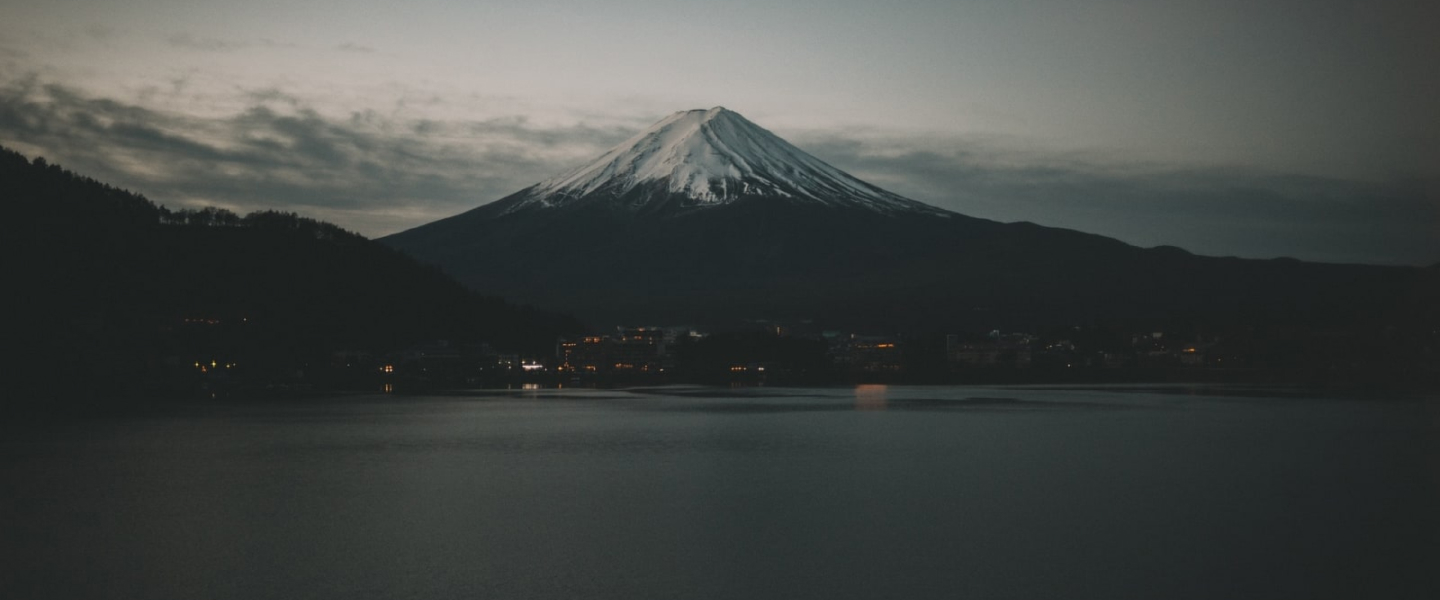
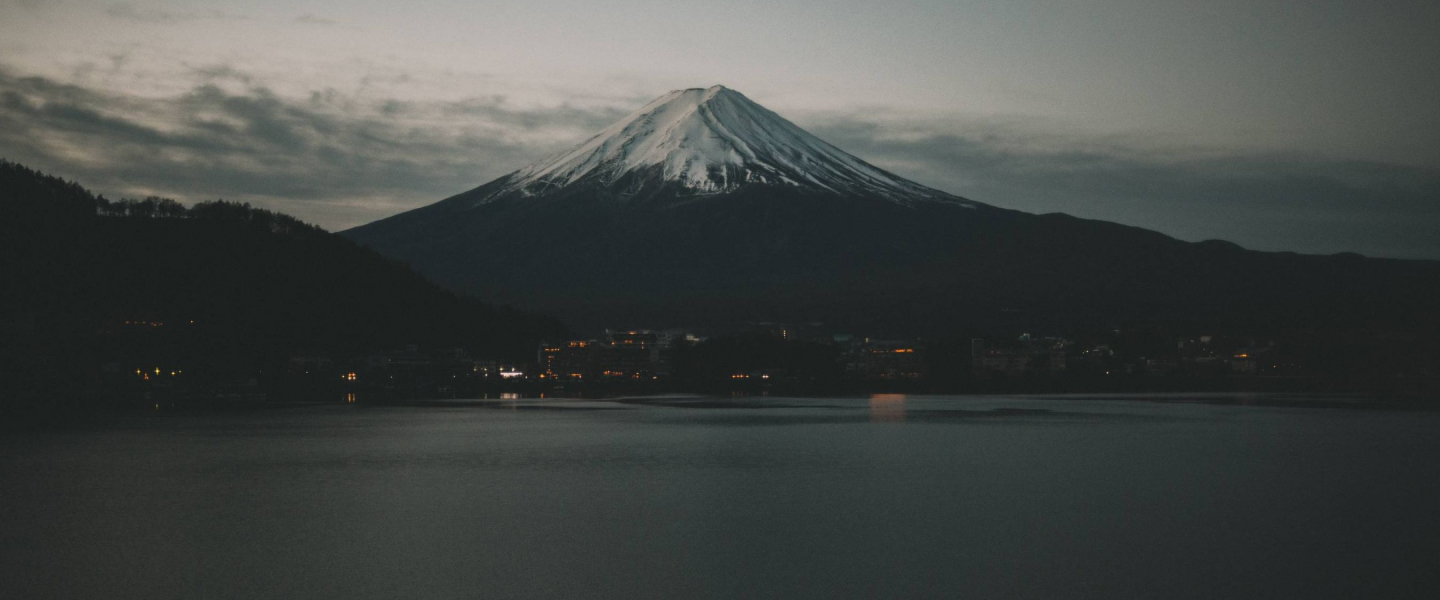
feature: create section sunset

diff --git a/dist/index.html b/dist/index.html
@@ -1,1 +1,1 @@
-<!DOCTYPE html><html lang="en"><head><meta charset="UTF-8"><meta http-equiv="X-UA-Compatible" content="IE=edge"><meta name="viewport" content="width=device-width,initial-scale=1"><title>Aperture</title><link rel="stylesheet" href="css/style.min.css"></head><body><header class="header"><div class="container"><div class="header__nav"><a href="#" class="header__logo"><img src="icons/logo.svg" alt="logo"></a><ul class="header__list"><li class="header__link">Business areas</li><li class="header__link">Featured images</li><li class="header__link">Gear cage</li><li class="header__link">Contact</li><button class="header__button">Get template</button></ul></div></div></header><section class="promo"><div class="container"><div class="promo__wrapper"><div class="promo__company">Photographer & Filmmaker</div><h1 class="promo__title">Aperture Studios</h1><div class="promo__descr">Lorem ipsum dolor sit amet, consectetur adipiscing elit. Suspendisse varius enim in eros elementum tristique. Duis cursus, mi quis viverra ornare, eros dolor interdum nulla, ut commodo diam libero vitae erat. Aenean faucibus nibh et justo cursus id rutrum lorem imperdiet. Nunc ut sem vitae risus tristique posuere.</div></div><div class="info"><div class="info__item"><div class="info__icon"><img src="icons/Shutter-Icon-Light.svg" alt="Shutter"></div><div class="info__text">1/2000s</div></div><div class="info__item"><div class="info__icon"><img src="icons/Aperture-Icon-Light.svg" alt="Aperture"></div><div class="info__text">f/11</div></div><div class="info__item"><div class="info__icon"><img src="icons/ISO-Icon-Light.svg" alt="ISO"></div><div class="info__text">100</div></div><div class="info__item"><div class="info__icon"><img src="icons/Location-Icon-Light.svg" alt="Location"></div><div class="info__text">Iceland</div></div></div></div></section><section class="what-we"><div class="container"><div class="title">What we do.</div><div class="subtitle what-we__subtitle">The areas that we're specialized in.</div><div class="what-we__wrapper"><div class="what-we__item"><img src="img/Product.jpg" alt="Product" class="what-we__img"><div class="what-we__content"><div class="title title_mini">Product Photography</div><div class="description description_mini what-we__description">Cras commodo consequat orci, in convallis risus egestas non. Nulla efficitur auctor hendrerit. Etiam ut orci varius, faucibus libero ac, cursus quam.</div><button class="button what-we__button">Read more</button></div></div><div class="what-we__item"><img src="img/Architecture.jpg" alt="Architecture" class="what-we__img"><div class="what-we__content"><div class="title title_mini">Architecture Photography</div><div class="description description_mini what-we__description">Aenean porta neque eget consequat fringilla. Vestibulum ultrices, orci nec egestas pharetra, ligula est semper enim, nec auctor sapien leo nec purus. Fusce tincidunt aliquet sapien, sit amet rhoncus leo imperdiet nec.</div><button class="button what-we__button">Read more</button></div></div><div class="what-we__item"><img src="img/Drone.jpg" alt="Drone" class="what-we__img"><div class="what-we__content"><div class="title title_mini">Drone Photography</div><div class="description description_mini what-we__description">Mauris euismod elit et nisi ultrices, ut faucibus orci tincidunt. Duis tristique sed lorem a vestibulum. Cras commodo consequat orci, in convallis risus egestas non. Nulla efficitur auctor hendrerit. Etiam ut orci varius, faucibus libero ac, cursus quam.</div><button class="button what-we__button">Read more</button></div></div><div class="what-we__item"><img src="img/Wildlife.jpg" alt="Wildlife" class="what-we__img"><div class="what-we__content"><div class="title title_mini">Wildlife Photography</div><div class="description description_mini what-we__description">Lorem ipsum dolor sit amet, consectetur adipiscing elit. Nullam scelerisque aliquam odio et faucibus. Nulla rhoncus feugiat eros quis consectetur. Morbi neque ex, condimentum dapibus congue et, vulputate ut ligula. Vestibulum sit amet urna turpis.</div><button class="button what-we__button">Read more</button></div></div></div></div></section></body></html>
+<!DOCTYPE html><html lang="en"><head><meta charset="UTF-8"><meta http-equiv="X-UA-Compatible" content="IE=edge"><meta name="viewport" content="width=device-width,initial-scale=1"><title>Aperture</title><link rel="stylesheet" href="css/style.min.css"></head><body><header class="header"><div class="container"><div class="header__nav"><a href="#" class="header__logo"><img src="icons/logo.svg" alt="logo"></a><ul class="header__list"><li class="header__link">Business areas</li><li class="header__link">Featured images</li><li class="header__link">Gear cage</li><li class="header__link">Contact</li><button class="header__button">Get template</button></ul></div></div></header><section class="promo"><div class="container"><div class="promo__wrapper"><div class="promo__company">Photographer & Filmmaker</div><h1 class="promo__title">Aperture Studios</h1><div class="promo__descr">Lorem ipsum dolor sit amet, consectetur adipiscing elit. Suspendisse varius enim in eros elementum tristique. Duis cursus, mi quis viverra ornare, eros dolor interdum nulla, ut commodo diam libero vitae erat. Aenean faucibus nibh et justo cursus id rutrum lorem imperdiet. Nunc ut sem vitae risus tristique posuere.</div></div><div class="info"><div class="info__item"><div class="info__icon"><img src="icons/Shutter-Icon-Light.svg" alt="Shutter"></div><div class="info__text">1/2000s</div></div><div class="info__item"><div class="info__icon"><img src="icons/Aperture-Icon-Light.svg" alt="Aperture"></div><div class="info__text">f/11</div></div><div class="info__item"><div class="info__icon"><img src="icons/ISO-Icon-Light.svg" alt="ISO"></div><div class="info__text">100</div></div><div class="info__item"><div class="info__icon"><img src="icons/Location-Icon-Light.svg" alt="Location"></div><div class="info__text">Iceland</div></div></div></div></section><section class="what-we"><div class="container"><div class="title">What we do.</div><div class="subtitle what-we__subtitle">The areas that we're specialized in.</div><div class="what-we__wrapper"><div class="what-we__item"><img src="img/Product.jpg" alt="Product" class="what-we__img"><div class="what-we__content"><div class="title title_mini">Product Photography</div><div class="description description_mini what-we__description">Cras commodo consequat orci, in convallis risus egestas non. Nulla efficitur auctor hendrerit. Etiam ut orci varius, faucibus libero ac, cursus quam.</div><button class="button what-we__button">Read more</button></div></div><div class="what-we__item"><img src="img/Architecture.jpg" alt="Architecture" class="what-we__img"><div class="what-we__content"><div class="title title_mini">Architecture Photography</div><div class="description description_mini what-we__description">Aenean porta neque eget consequat fringilla. Vestibulum ultrices, orci nec egestas pharetra, ligula est semper enim, nec auctor sapien leo nec purus. Fusce tincidunt aliquet sapien, sit amet rhoncus leo imperdiet nec.</div><button class="button what-we__button">Read more</button></div></div><div class="what-we__item"><img src="img/Drone.jpg" alt="Drone" class="what-we__img"><div class="what-we__content"><div class="title title_mini">Drone Photography</div><div class="description description_mini what-we__description">Mauris euismod elit et nisi ultrices, ut faucibus orci tincidunt. Duis tristique sed lorem a vestibulum. Cras commodo consequat orci, in convallis risus egestas non. Nulla efficitur auctor hendrerit. Etiam ut orci varius, faucibus libero ac, cursus quam.</div><button class="button what-we__button">Read more</button></div></div><div class="what-we__item"><img src="img/Wildlife.jpg" alt="Wildlife" class="what-we__img"><div class="what-we__content"><div class="title title_mini">Wildlife Photography</div><div class="description description_mini what-we__description">Lorem ipsum dolor sit amet, consectetur adipiscing elit. Nullam scelerisque aliquam odio et faucibus. Nulla rhoncus feugiat eros quis consectetur. Morbi neque ex, condimentum dapibus congue et, vulputate ut ligula. Vestibulum sit amet urna turpis.</div><button class="button what-we__button">Read more</button></div></div></div></div></section><section class="sunset"><div class="container"><div class="sunset__content"><div class="title title_mini sunset__title">Sunset at Mount Fuji</div><div class="description description_mini sunset__description">Duis tristique sed lorem a vestibulum. Cras commodo consequat orci, in convallis risus egestas non.</div></div><div class="info"><div class="info__item"><div class="info__icon"><img src="icons/Shutter-Icon-Light.svg" alt="Shutter"></div><div class="info__text">1''</div></div><div class="info__item"><div class="info__icon"><img src="icons/Aperture-Icon-Light.svg" alt="Aperture"></div><div class="info__text">f/16</div></div><div class="info__item"><div class="info__icon"><img src="icons/ISO-Icon-Light.svg" alt="ISO"></div><div class="info__text">400</div></div><div class="info__item"><div class="info__icon"><img src="icons/Location-Icon-Light.svg" alt="Location"></div><div class="info__text">Japan</div></div></div></div></section></body></html>

diff --git a/dist/css/style.min.css b/dist/css/style.min.css
@@ -1,1 +1,1 @@
-@charset "UTF-8";a,abbr,acronym,address,applet,article,aside,audio,b,big,blockquote,body,canvas,caption,center,cite,code,dd,del,details,dfn,div,dl,dt,em,embed,fieldset,figcaption,figure,footer,form,h1,h2,h3,h4,h5,h6,header,hgroup,html,i,iframe,img,ins,kbd,label,legend,li,mark,menu,nav,object,ol,output,p,pre,q,ruby,s,samp,section,small,span,strike,strong,sub,summary,sup,table,tbody,td,tfoot,th,thead,time,tr,tt,u,ul,var,video{margin:0;padding:0;border:0;font-size:100%;vertical-align:baseline}article,aside,details,figcaption,figure,footer,header,hgroup,menu,nav,section{display:block}body{line-height:1}ol,ul{list-style:none}blockquote,q{quotes:none}blockquote:after,blockquote:before,q:after,q:before{content:'';content:none}table{border-collapse:collapse;border-spacing:0}*{font-family:Poppins,sans-serif;margin:0;padding:0;border:0}.container{max-width:1360px;margin:0 auto}.header{position:absolute;top:0;left:0;width:100%;padding:24px 0;background-color:#000}.header__nav{display:flex;justify-content:space-between;padding:0 100px}.header__logo{display:flex;align-items:center;max-width:128px}.header__logo img{width:100%}.header__list{display:flex;align-items:center;-moz-column-gap:32px;column-gap:32px}.header__link{font-weight:400;font-size:15px;color:#fff}.header__button{width:155px;height:42px;border-radius:14px;background-color:#fff;font-weight:400;font-size:15px;color:#000;text-align:center}.promo{min-height:100vh;background:url(../../img/Main.jpg) center center/cover no-repeat;padding:0 0 40px 0}.promo__wrapper{position:absolute;bottom:70px;left:50%;transform:translateX(-50%)}.promo__company{font-weight:400;font-size:14px;letter-spacing:2px;text-align:center;text-transform:uppercase;color:silver}.promo__title{margin-top:1px;font-weight:400;font-size:54px;text-align:center;color:#fff}.promo__descr{margin:0 auto;margin-top:18px;width:580px;font-weight:400;font-size:14px;line-height:20px;text-align:center;color:silver}.info{display:flex;justify-content:center;position:absolute;bottom:40px;right:40px;-moz-column-gap:16px;column-gap:16px}.info__item{display:flex}.info__icon{max-height:16px}.info__icon img{width:100%}.info__text{margin-left:6px;font-weight:400;font-size:12px;color:#fff}.what-we{padding:113px 0 100px 0;background-color:#000}.what-we__subtitle{margin-top:15px}.what-we__wrapper{margin-top:42px;display:grid;grid-template:repeat(2,600px)/repeat(2,576px);justify-content:center;gap:16px 16px}.what-we__item{position:relative}.what-we__content{position:absolute;bottom:30px;left:30px}.what-we__description{margin-top:10px}.what-we__button{margin-top:17px}.title{font-weight:400;font-size:40px;text-align:center;color:#fff}.title_mini{text-align:left;font-weight:400;font-size:14px;letter-spacing:2px;text-transform:uppercase;color:#fff}.subtitle{font-weight:400;font-size:23px;text-align:center;color:silver}.description_mini{font-weight:400;font-size:14px;line-height:20px;color:silver}.button{height:42px;width:143px;background:#fff;border-radius:14px;font-weight:400;font-size:15px;letter-spacing:.4px;color:#000;padding:0 15px;text-align:end}.button::before{content:"";position:absolute;width:16px;height:16px;background:url(../../icons/Aperture-Icon-Dark.svg) no-repeat center;left:15px}
+@charset "UTF-8";a,abbr,acronym,address,applet,article,aside,audio,b,big,blockquote,body,canvas,caption,center,cite,code,dd,del,details,dfn,div,dl,dt,em,embed,fieldset,figcaption,figure,footer,form,h1,h2,h3,h4,h5,h6,header,hgroup,html,i,iframe,img,ins,kbd,label,legend,li,mark,menu,nav,object,ol,output,p,pre,q,ruby,s,samp,section,small,span,strike,strong,sub,summary,sup,table,tbody,td,tfoot,th,thead,time,tr,tt,u,ul,var,video{margin:0;padding:0;border:0;font-size:100%;vertical-align:baseline}article,aside,details,figcaption,figure,footer,header,hgroup,menu,nav,section{display:block}body{line-height:1}ol,ul{list-style:none}blockquote,q{quotes:none}blockquote:after,blockquote:before,q:after,q:before{content:'';content:none}table{border-collapse:collapse;border-spacing:0}*{font-family:Poppins,sans-serif;margin:0;padding:0;border:0}.container{max-width:1360px;margin:0 auto}.header{position:absolute;top:0;left:0;width:100%;padding:24px 0;background-color:#000}.header__nav{display:flex;justify-content:space-between;padding:0 100px}.header__logo{display:flex;align-items:center;max-width:128px}.header__logo img{width:100%}.header__list{display:flex;align-items:center;-moz-column-gap:32px;column-gap:32px}.header__link{font-weight:400;font-size:15px;color:#fff}.header__button{width:155px;height:42px;border-radius:14px;background-color:#fff;font-weight:400;font-size:15px;color:#000;text-align:center}.promo{min-height:100vh;background:url(../../img/Main.jpg) center center/cover no-repeat;padding:0 0 40px 0}.promo__wrapper{position:absolute;bottom:70px;left:50%;transform:translateX(-50%)}.promo__company{font-weight:400;font-size:14px;letter-spacing:2px;text-align:center;text-transform:uppercase;color:silver}.promo__title{margin-top:1px;font-weight:400;font-size:54px;text-align:center;color:#fff}.promo__descr{margin:0 auto;margin-top:18px;width:580px;font-weight:400;font-size:14px;line-height:20px;text-align:center;color:silver}.info{display:flex;justify-content:center;position:absolute;bottom:40px;right:40px;-moz-column-gap:16px;column-gap:16px}.info__item{display:flex}.info__icon{max-height:16px}.info__icon img{width:100%}.info__text{margin-left:6px;font-weight:400;font-size:12px;color:#fff}.what-we{padding:113px 0 100px 0;background-color:#000}.what-we__subtitle{margin-top:15px}.what-we__wrapper{margin-top:42px;display:grid;grid-template:repeat(2,600px)/repeat(2,576px);justify-content:center;gap:16px 16px}.what-we__item{position:relative}.what-we__content{position:absolute;bottom:30px;left:30px}.what-we__description{margin-top:10px}.what-we__button{margin-top:17px}.title{font-weight:400;font-size:40px;text-align:center;color:#fff}.title_mini{text-align:left;font-weight:400;font-size:14px;line-height:20px;letter-spacing:2px;text-transform:uppercase;color:#fff}.subtitle{font-weight:400;font-size:23px;text-align:center;color:silver}.description_mini{font-weight:400;font-size:14px;line-height:20px;color:silver}.button{height:42px;width:143px;background:#fff;border-radius:14px;font-weight:400;font-size:15px;letter-spacing:.4px;color:#000;padding:0 15px;text-align:end}.button::before{content:"";position:absolute;width:16px;height:16px;background:url(../../icons/Aperture-Icon-Dark.svg) no-repeat center;left:15px}.sunset{height:600px;background:url(../../img/Mount.jpg) center center/cover no-repeat;position:relative}.sunset__content{width:298px;position:absolute;top:260px;right:20px}

diff --git a/src/index.html b/src/index.html
@@ -101,5 +101,39 @@
             </div>
         </div>
     </section>
+    <section class="sunset">
+        <div class="container">
+            <div class="sunset__content">
+                <div class="title title_mini sunset__title">Sunset at Mount Fuji</div>
+                <div class="description description_mini sunset__description">Duis tristique sed lorem a vestibulum. Cras commodo consequat orci, in convallis risus egestas non.</div>
+            </div>
+            <div class="info">
+                <div class="info__item">
+                    <div class="info__icon">
+                        <img src="icons/Shutter-Icon-Light.svg" alt="Shutter">
+                    </div>
+                    <div class="info__text">1''</div>
+                </div>
+                <div class="info__item">
+                    <div class="info__icon">
+                        <img src="icons/Aperture-Icon-Light.svg" alt="Aperture">
+                    </div>
+                    <div class="info__text">f/16</div>
+                </div>
+                <div class="info__item">
+                    <div class="info__icon">
+                        <img src="icons/ISO-Icon-Light.svg" alt="ISO">
+                    </div>
+                    <div class="info__text">400</div>
+                </div>
+                <div class="info__item">
+                    <div class="info__icon">
+                        <img src="icons/Location-Icon-Light.svg" alt="Location">
+                    </div>
+                    <div class="info__text">Japan</div>
+                </div>
+            </div>
+        </div>
+    </section>
 </body>
 </html>

diff --git a/src/sass/blocks/_sunset.scss b/src/sass/blocks/_sunset.scss
@@ -1,0 +1,11 @@
+.sunset {
+    height: 600px;
+    background: url(../../img/Mount.jpg) center (center/cover) no-repeat;
+    position: relative;
+    &__content {
+        width: 298px;
+        position: absolute;
+        top: 260px;
+        right: 20px;
+    }
+}

diff --git a/src/sass/blocks/_title.scss b/src/sass/blocks/_title.scss
@@ -7,6 +7,7 @@
         text-align: left;
         font-weight: 400;
         font-size: 14px;
+        line-height: 20px;
         letter-spacing: 2px;
         text-transform: uppercase;
         color: #FFFFFF;

diff --git a/src/sass/style.scss b/src/sass/style.scss
@@ -26,3 +26,4 @@
 @import 'blocks/subtitle';
 @import 'blocks/description';
 @import 'blocks/button';
+@import 'blocks/sunset';
